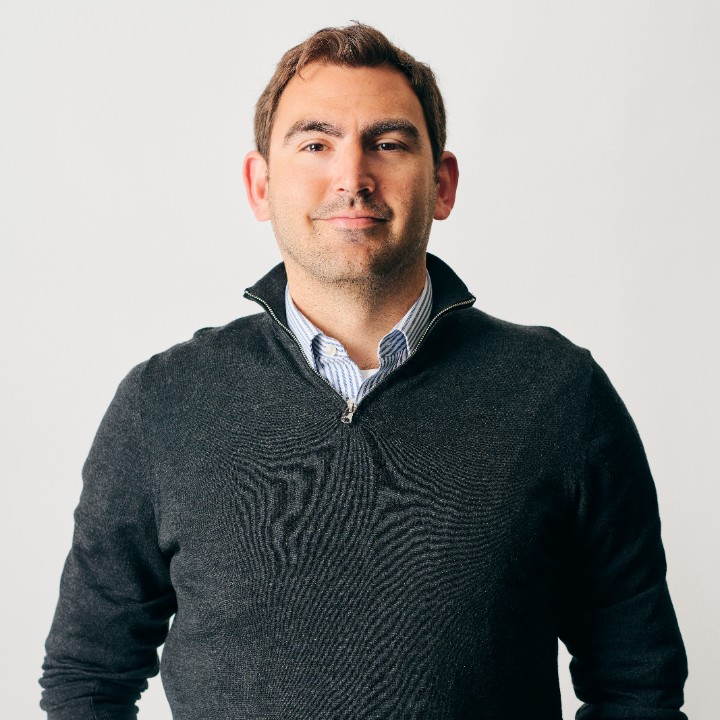
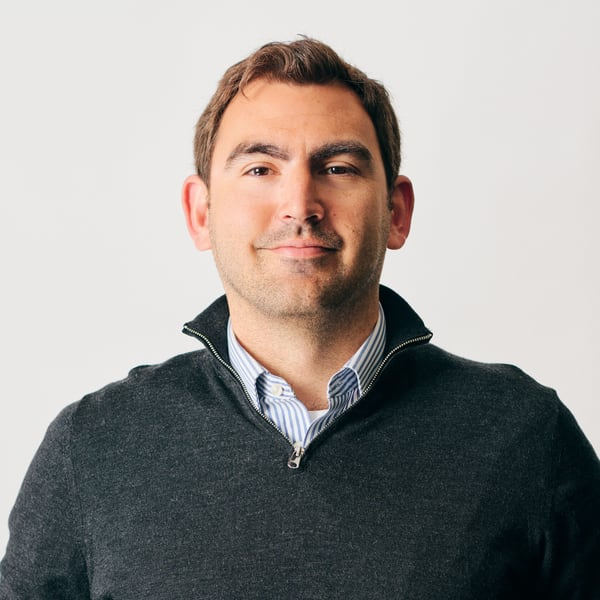
Add Suri Leitner as host; sharper Dani photo
- New host card: Suri Leitner, Business Development Manager, Delta
  Fulfilment, with a gradient "Host" badge like the guest-speaker one
- Speakers grid is now three cards (host first); on phones the host card
  sits centred above Dani and Hannah
- Dani's photo re-cropped from the full-resolution original (was soft)
- Section label: "Your host & speakers"

diff --git a/index.html b/index.html
@@ -227,7 +227,7 @@ p{text-wrap:pretty}
 
 /* ========== SPEAKERS ========== */
 .speakers{background:var(--paper-2)}
-.spk{display:grid;grid-template-columns:repeat(2,minmax(0,300px));justify-content:center;gap:clamp(16px,3vw,32px);margin-top:48px}
+.spk{display:grid;grid-template-columns:repeat(3,minmax(0,290px));justify-content:center;gap:clamp(14px,2.6vw,28px);margin-top:48px}
 /* subgrid: photo, name, role and logo rows share heights across cards, so text lines up however it wraps */
 .fcard{display:grid;grid-row:span 4;grid-template-rows:subgrid;row-gap:0;background:var(--paper);border:1px solid var(--line);border-radius:var(--r-lg);overflow:hidden;box-shadow:var(--shadow-sm);transition:transform .35s var(--ease),box-shadow .35s var(--ease)}
 .fcard:hover{transform:translateY(-5px);box-shadow:var(--shadow)}
@@ -244,6 +244,8 @@ p{text-wrap:pretty}
 .fcard__logo img{max-height:26px;max-width:120px;width:auto;object-fit:contain}
 @media(max-width:560px){
   .spk{grid-template-columns:1fr 1fr;gap:12px}
+  /* host card centred on its own row, speakers side by side below */
+  .spk .fcard:first-child{grid-column:1 / -1;justify-self:center;width:calc(50% - 6px)}
   .fcard__nm{font-size:17px;padding:14px 14px 0}
   .fcard__role{font-size:13px;padding:4px 14px 0}
   .fcard__logo{height:40px;margin:12px 14px 16px;padding-top:12px}
@@ -416,10 +418,18 @@ p{text-wrap:pretty}
 <section class="section speakers">
   <div class="container">
     <div class="shead reveal">
-      <span class="kicker">Your speakers</span>
+      <span class="kicker">Your host &amp; speakers</span>
       <h2 class="h-lg">Hear it from <span class="g">Delta and Shopify.</span></h2>
     </div>
     <div class="spk reveal">
+      <article class="fcard">
+        <div class="fcard__ph"><span class="fcard__badge">Host</span><img src="assets/host-suri.jpg" alt="Suri Leitner"></div>
+        <div class="fcard__b">
+          <p class="fcard__nm">Suri Leitner</p>
+          <p class="fcard__role">Business Development Manager, Delta Fulfilment</p>
+          <div class="fcard__logo"><img src="assets/logo-dark.png" alt="Delta Fulfilment"></div>
+        </div>
+      </article>
       <article class="fcard">
         <div class="fcard__ph"><img src="assets/founder-dani.jpg" alt="Dani Mechlowitz"></div>
         <div class="fcard__b">
